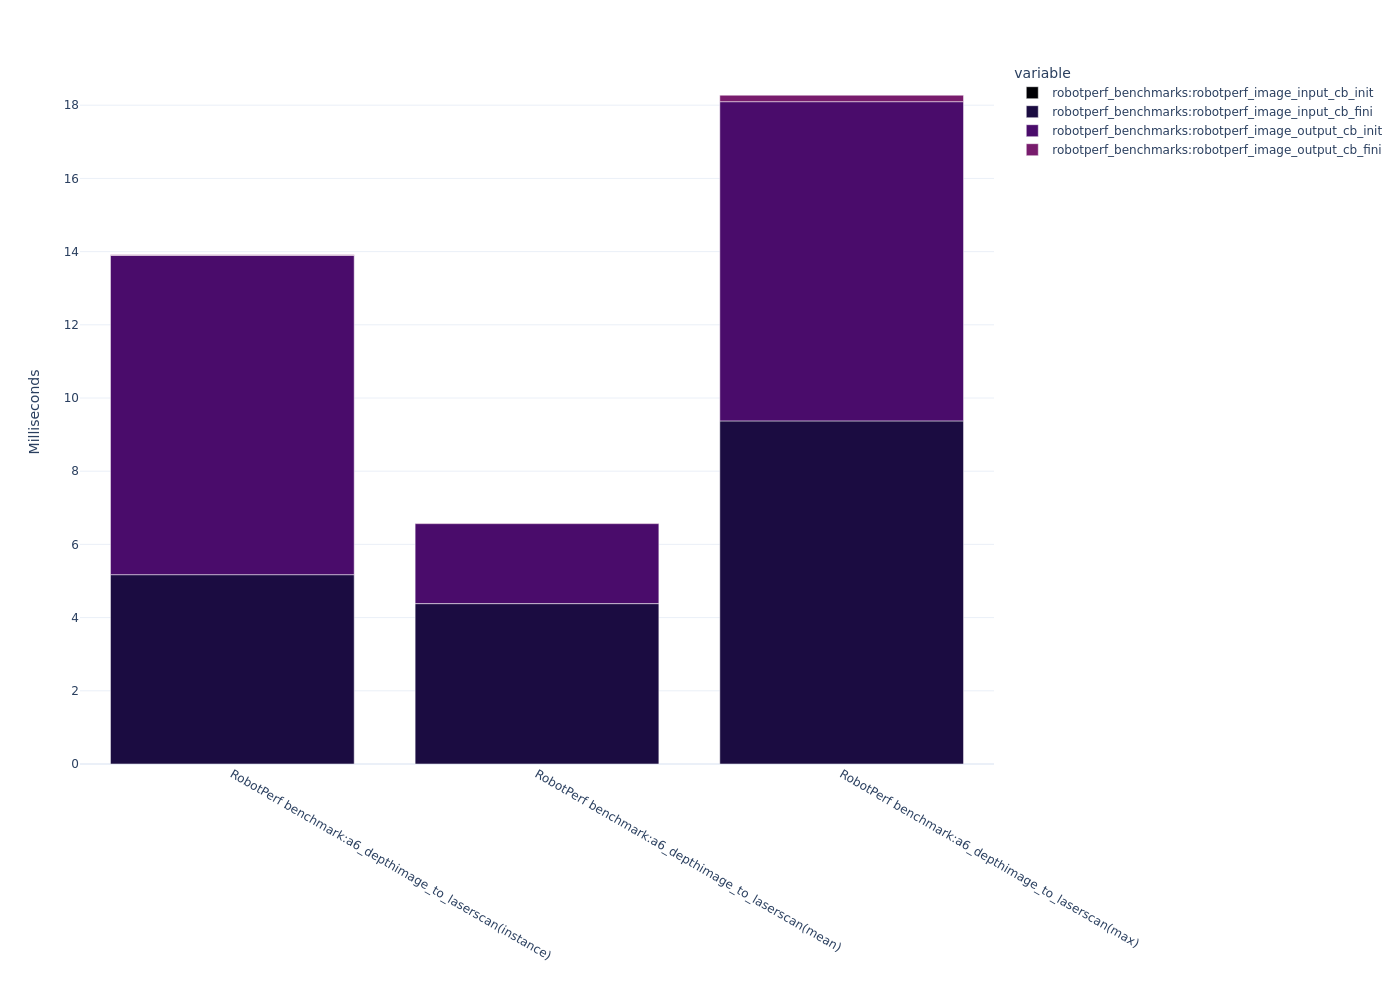
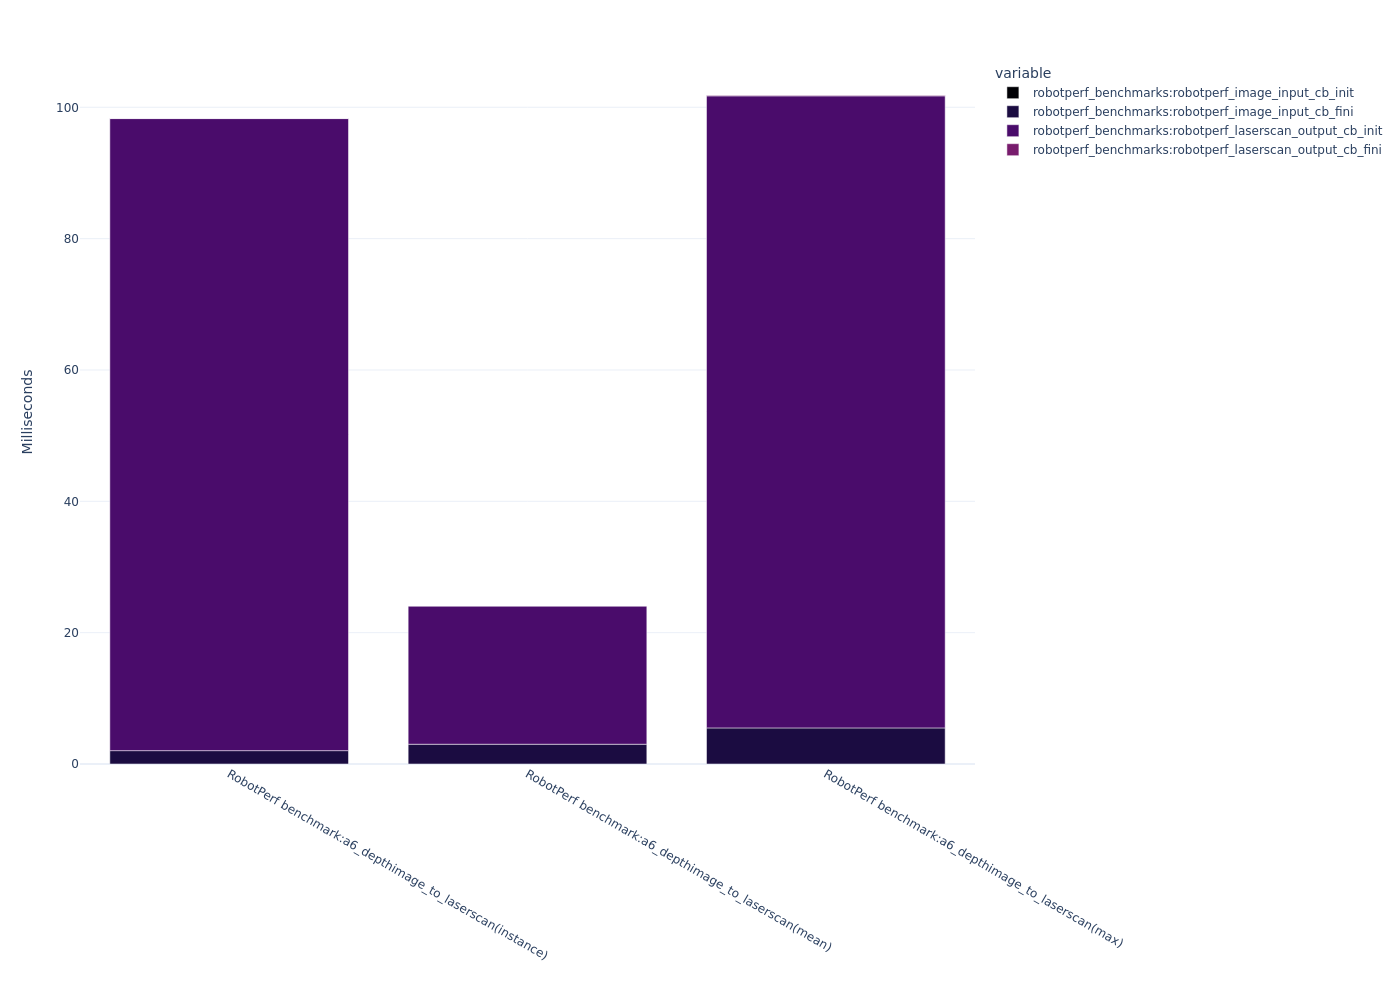
fix tracepoint name for laserscan output component

diff --git a/benchmarks/other/tracetools_benchmark/include/tracetools_benchmark/tracetools.h b/benchmarks/other/tracetools_benchmark/include/tracetools_benchmark/tracetools.h
@@ -249,6 +249,86 @@ DECLARE_TRACEPOINT(
   uint32_t image_input_header_sec_arg,
   size_t pointcloud_output_msg_size)
 
+/// `robotperf_laserscan_input_cb_init`
+/**
+ * Tracepoint while initiating the callback of robotperf::perception::LaserscanInputComponent component
+ *
+ * Notes the `tracetools_benchmark` version automatically.
+ *
+ * \param[in] laserscan_input_node rclcpp::node::Node subject to the callback
+ * \param[in] laserscan_input_scan_msg laserscan ROS message stored as sensor_msgs::msg::LaserScan::SharedPtr
+ * \param[in] laserscan_input_header_nsec_arg nanosec field of the header (std_msgs/Header) of sensor_msgs::msg::LaserScan's ROS message 
+ * \param[in] laserscan_input_header_sec_arg sec field of the header (std_msgs/Header) of sensor_msgs::msg::LaserScan's ROS message 
+ * \param[in] laserscan_input_msg_size size of laserscan ROS message stored as bytes
+ */
+DECLARE_TRACEPOINT(
+  robotperf_laserscan_input_cb_init,
+  const void * laserscan_input_node,
+  const void * laserscan_input_scan_msg,
+  uint32_t laserscan_input_header_nsec_arg,
+  uint32_t laserscan_input_header_sec_arg,
+  size_t laserscan_input_msg_size)
+
+/// `robotperf_laserscan_input_cb_fini`
+/**
+ * Tracepoint while finishing the callback of robotperf::perception::LaserscanInputComponent component
+ *
+ * Notes the `tracetools_benchmark` version automatically.
+ *
+ * \param[in] laserscan_input_node rclcpp::node::Node subject to the callback
+ * \param[in] laserscan_input_scan_msg laserscan ROS message stored as sensor_msgs::msg::LaserScan::SharedPtr
+ * \param[in] laserscan_input_header_nsec_arg nanosec field of the header (std_msgs/Header) of sensor_msgs::msg::LaserScan's ROS message 
+ * \param[in] laserscan_input_header_sec_arg sec field of the header (std_msgs/Header) of sensor_msgs::msg::LaserScan's ROS message 
+ * \param[in] laserscan_input_msg_size size of laserscan ROS message stored as bytes
+ */
+DECLARE_TRACEPOINT(
+  robotperf_laserscan_input_cb_fini,
+  const void * laserscan_input_node,
+  const void * laserscan_input_scan_msg,
+  uint32_t laserscan_input_header_nsec_arg,
+  uint32_t laserscan_input_header_sec_arg,
+  size_t laserscan_input_msg_size)
+
+/// `robotperf_laserscan_output_cb_init`
+/**
+ * Tracepoint while initiating the callback of robotperf::perception::LaserscanOutputComponent component
+ *
+ * Notes the `tracetools_benchmark` version automatically.
+ *
+ * \param[in] laserscan_output_node rclcpp::node::Node subject to the callback
+ * \param[in] laserscan_output_scan_msg laserscan ROS message stored as sensor_msgs::msg::LaserScan::SharedPtr
+ * \param[in] laserscan_output_header_nsec_arg nanosec field of the header (std_msgs/Header) of sensor_msgs::msg::LaserScan's ROS message 
+ * \param[in] laserscan_output_header_sec_arg sec field of the header (std_msgs/Header) of sensor_msgs::msg::LaserScan's ROS message 
+ * \param[in] laserscan_output_msg_size size of laserscan ROS message stored as bytes
+ */
+DECLARE_TRACEPOINT(
+  robotperf_laserscan_output_cb_init,
+  const void * laserscan_output_node,
+  const void * laserscan_output_scan_msg,
+  uint32_t laserscan_output_header_nsec_arg,
+  uint32_t laserscan_output_header_sec_arg,
+  size_t laserscan_output_msg_size)
+
+/// `robotperf_laserscan_output_cb_fini`
+/**
+ * Tracepoint while finishing the callback of robotperf::perception::LaserscanOutputComponent component
+ *
+ * Notes the `tracetools_benchmark` version automatically.
+ *
+ * \param[in] laserscan_output_node rclcpp::node::Node subject to the callback
+ * \param[in] laserscan_output_scan_msg laserscan ROS message stored as sensor_msgs::msg::LaserScan::SharedPtr
+ * \param[in] laserscan_output_header_nsec_arg nanosec field of the header (std_msgs/Header) of sensor_msgs::msg::LaserScan's ROS message 
+ * \param[in] laserscan_output_header_sec_arg sec field of the header (std_msgs/Header) of sensor_msgs::msg::LaserScan's ROS message 
+ * \param[in] laserscan_output_msg_size size of laserscan ROS message stored as bytes
+ */
+DECLARE_TRACEPOINT(
+  robotperf_laserscan_output_cb_fini,
+  const void * laserscan_output_node,
+  const void * laserscan_output_scan_msg,
+  uint32_t laserscan_output_header_nsec_arg,
+  uint32_t laserscan_output_header_sec_arg,
+  size_t laserscan_output_msg_size)
+
 #ifdef __cplusplus
 }
 #endif

diff --git a/benchmarks/other/tracetools_benchmark/include/tracetools_benchmark/tp_call.h b/benchmarks/other/tracetools_benchmark/include/tracetools_benchmark/tp_call.h
@@ -216,6 +216,90 @@ TRACEPOINT_EVENT(
   )
 )
 
+// robotperf laserscan_input init callback
+TRACEPOINT_EVENT(
+  TRACEPOINT_PROVIDER,                 // tracepoint provider name
+  robotperf_laserscan_input_cb_init,   // tracepoint name
+  TP_ARGS(
+    // input arguments
+    const void *, laserscan_input_node_arg,
+    const void *, laserscan_input_scan_msg_arg,
+    uint32_t, laserscan_input_header_nsec_arg,
+    uint32_t, laserscan_input_header_sec_arg,
+    size_t, laserscan_input_msg_size_arg),
+  TP_FIELDS(
+    // output event fields
+    ctf_integer_hex(const void *, laserscan_input_node, laserscan_input_node_arg)
+    ctf_integer_hex(const void *, laserscan_input_scan_msg, laserscan_input_scan_msg_arg)
+    ctf_integer(uint32_t, laserscan_input_header_nsec, laserscan_input_header_nsec_arg)
+    ctf_integer(uint32_t, laserscan_input_header_sec, laserscan_input_header_sec_arg)
+    ctf_integer(size_t, laserscan_input_msg_size, laserscan_input_msg_size_arg)
+    ctf_string(version, tracetools_benchmark_VERSION)
+  )
+)
+
+// robotperf laserscan_input end of callback (after publication)
+TRACEPOINT_EVENT(
+  TRACEPOINT_PROVIDER,
+  robotperf_laserscan_input_cb_fini,
+  TP_ARGS(
+    const void *, laserscan_input_node_arg,
+    const void *, laserscan_input_scan_msg_arg,
+    uint32_t, laserscan_input_header_nsec_arg,
+    uint32_t, laserscan_input_header_sec_arg,
+    size_t, laserscan_input_msg_size_arg),
+  TP_FIELDS(
+    ctf_integer_hex(const void *, laserscan_input_node, laserscan_input_node_arg)
+    ctf_integer_hex(const void *, laserscan_input_scan_msg, laserscan_input_scan_msg_arg)
+    ctf_integer(uint32_t, laserscan_input_header_nsec, laserscan_input_header_nsec_arg)
+    ctf_integer(uint32_t, laserscan_input_header_sec, laserscan_input_header_sec_arg)
+    ctf_integer(size_t, laserscan_input_msg_size, laserscan_input_msg_size_arg)
+    ctf_string(version, tracetools_benchmark_VERSION)
+  )
+)
+
+// robotperf laserscan_output init callback
+TRACEPOINT_EVENT(
+  TRACEPOINT_PROVIDER,                 // tracepoint provider name
+  robotperf_laserscan_output_cb_init,  // tracepoint name
+  TP_ARGS(
+    // input arguments
+    const void *, laserscan_output_node_arg,
+    const void *, laserscan_output_scan_msg_arg,
+    uint32_t, laserscan_output_header_nsec_arg,
+    uint32_t, laserscan_output_header_sec_arg,
+    size_t, laserscan_output_msg_size_arg),
+  TP_FIELDS(
+    // output event fields
+    ctf_integer_hex(const void *, laserscan_output_node, laserscan_output_node_arg)
+    ctf_integer_hex(const void *, laserscan_output_scan_msg, laserscan_output_scan_msg_arg)
+    ctf_integer(uint32_t, laserscan_output_header_nsec, laserscan_output_header_nsec_arg)
+    ctf_integer(uint32_t, laserscan_output_header_sec, laserscan_output_header_sec_arg)
+    ctf_integer(size_t, laserscan_output_msg_size, laserscan_output_msg_size_arg)
+    ctf_string(version, tracetools_benchmark_VERSION)
+  )
+)
+
+// robotperf laserscan_output end of callback (after publication)
+TRACEPOINT_EVENT(
+  TRACEPOINT_PROVIDER,
+  robotperf_laserscan_output_cb_fini,
+  TP_ARGS(
+    const void *, laserscan_output_node_arg,
+    const void *, laserscan_output_scan_msg_arg,
+    uint32_t, laserscan_output_header_nsec_arg,
+    uint32_t, laserscan_output_header_sec_arg,
+    size_t, laserscan_output_msg_size_arg),
+  TP_FIELDS(
+    ctf_integer_hex(const void *, laserscan_output_node, laserscan_output_node_arg)
+    ctf_integer_hex(const void *, laserscan_output_scan_msg, laserscan_output_scan_msg_arg)
+    ctf_integer(uint32_t, laserscan_output_header_nsec, laserscan_output_header_nsec_arg)
+    ctf_integer(uint32_t, laserscan_output_header_sec, laserscan_output_header_sec_arg)
+    ctf_integer(size_t, laserscan_output_msg_size, laserscan_output_msg_size_arg)
+    ctf_string(version, tracetools_benchmark_VERSION)
+  )
+)
+
 #endif  // _TRACETOOLS_BENCHMARK__TP_CALL_H_
 
 #include <lttng/tracepoint-event.h>

diff --git a/benchmarks/other/tracetools_benchmark/src/tracetools.c b/benchmarks/other/tracetools_benchmark/src/tracetools.c
@@ -205,6 +205,76 @@ void TRACEPOINT(
     pointcloud_output_msg_size_arg);
 }
 
+// laserscan_input
+void TRACEPOINT(
+  robotperf_laserscan_input_cb_init,
+  const void * laserscan_input_node_arg,
+  const void * laserscan_input_scan_msg_arg,
+  uint32_t laserscan_input_header_nsec_arg,
+  uint32_t laserscan_input_header_sec_arg,
+  size_t laserscan_input_msg_size_arg)
+{
+  CONDITIONAL_TP(
+    robotperf_laserscan_input_cb_init,
+    laserscan_input_node_arg,
+    laserscan_input_scan_msg_arg,
+    laserscan_input_header_nsec_arg,
+    laserscan_input_header_sec_arg,
+    laserscan_input_msg_size_arg);
+}
+
+void TRACEPOINT(
+  robotperf_laserscan_input_cb_fini,
+  const void * laserscan_input_node_arg,
+  const void * laserscan_input_scan_msg_arg,
+  uint32_t laserscan_input_header_nsec_arg,
+  uint32_t laserscan_input_header_sec_arg,
+  size_t laserscan_input_msg_size_arg)
+{
+  CONDITIONAL_TP(
+    robotperf_laserscan_input_cb_fini,
+    laserscan_input_node_arg,
+    laserscan_input_scan_msg_arg,
+    laserscan_input_header_nsec_arg,
+    laserscan_input_header_sec_arg,
+    laserscan_input_msg_size_arg);
+}
+
+// laserscan_output
+void TRACEPOINT(
+  robotperf_laserscan_output_cb_init,
+  const void * laserscan_output_node_arg,
+  const void * laserscan_output_scan_msg_arg,
+  uint32_t laserscan_output_header_nsec_arg,
+  uint32_t laserscan_output_header_sec_arg,
+  size_t laserscan_output_msg_size_arg)
+{
+  CONDITIONAL_TP(
+    robotperf_laserscan_output_cb_init,
+    laserscan_output_node_arg,
+    laserscan_output_scan_msg_arg,
+    laserscan_output_header_nsec_arg,
+    laserscan_output_header_sec_arg,
+    laserscan_output_msg_size_arg);
+}
+
+void TRACEPOINT(
+  robotperf_laserscan_output_cb_fini,
+  const void * laserscan_output_node_arg,
+  const void * laserscan_output_scan_msg_arg,
+  uint32_t laserscan_output_header_nsec_arg,
+  uint32_t laserscan_output_header_sec_arg,
+  size_t laserscan_output_msg_size_arg)
+{
+  CONDITIONAL_TP(
+    robotperf_laserscan_output_cb_fini,
+    laserscan_output_node_arg,
+    laserscan_output_scan_msg_arg,
+    laserscan_output_header_nsec_arg,
+    laserscan_output_header_sec_arg,
+    laserscan_output_msg_size_arg);
+}
+
 #ifndef _WIN32
 # pragma GCC diagnostic pop
 #else

diff --git a/benchmarks/perception/a6_depthimage_to_laserscan/launch/analyze_a6_depthimage_to_laserscan.launch.py b/benchmarks/perception/a6_depthimage_to_laserscan/launch/analyze_a6_depthimage_to_laserscan.launch.py
@@ -58,8 +58,8 @@ def main(argv):
         'robotperf_benchmarks:robotperf_image_input_cb_fini',
         # 'ros2:callback_end',
         # "ros2:callback_start",
-        'robotperf_benchmarks:robotperf_image_output_cb_init',
-        'robotperf_benchmarks:robotperf_image_output_cb_fini',
+        'robotperf_benchmarks:robotperf_laserscan_output_cb_init',
+        'robotperf_benchmarks:robotperf_laserscan_output_cb_fini',
         # "ros2:callback_end",
         ]
 
@@ -88,8 +88,8 @@ def main(argv):
         )
         ba.add_target(
             {
-                "name": "robotperf_benchmarks:robotperf_image_output_cb_init",
-                "name_disambiguous": "robotperf_benchmarks:robotperf_image_output_cb_init",
+                "name": "robotperf_benchmarks:robotperf_laserscan_output_cb_init",
+                "name_disambiguous": "robotperf_benchmarks:robotperf_laserscan_output_cb_init",
                 "colors_fg": "red",
                 "colors_fg_bokeh": "red",
                 "layer": "benchmark",
@@ -99,8 +99,8 @@ def main(argv):
         )
         ba.add_target(
             {
-                "name": "robotperf_benchmarks:robotperf_image_output_cb_fini",
-                "name_disambiguous": "robotperf_benchmarks:robotperf_image_output_cb_fini",
+                "name": "robotperf_benchmarks:robotperf_laserscan_output_cb_fini",
+                "name_disambiguous": "robotperf_benchmarks:robotperf_laserscan_output_cb_fini",
                 "colors_fg": "red",
                 "colors_fg_bokeh": "lavender",
                 "layer": "userland",

diff --git a/benchmarks/perception/a6_depthimage_to_laserscan/src/laserscan_output_component.cpp b/benchmarks/perception/a6_depthimage_to_laserscan/src/laserscan_output_component.cpp
@@ -57,24 +57,20 @@ namespace perception
         const sensor_msgs::msg::LaserScan::SharedPtr scan_msg)
     {
         TRACEPOINT(
-            robotperf_image_output_cb_init,
+            robotperf_laserscan_output_cb_init,
             static_cast<const void *>(this),
             static_cast<const void *>(&(*scan_msg)),
-            nullptr,
             scan_msg->header.stamp.nanosec,
             scan_msg->header.stamp.sec,
-            get_msg_size(scan_msg),
-            size_t(0));
+            get_msg_size(scan_msg));
 
         TRACEPOINT(
-            robotperf_image_output_cb_fini,    
+            robotperf_laserscan_output_cb_fini,    
             static_cast<const void *>(this),
             static_cast<const void *>(&(*scan_msg)),
-            nullptr,
             scan_msg->header.stamp.nanosec,
             scan_msg->header.stamp.sec,
-            get_msg_size(scan_msg),
-            size_t(0));
+            get_msg_size(scan_msg));
 
     }
 } // namespace perception
